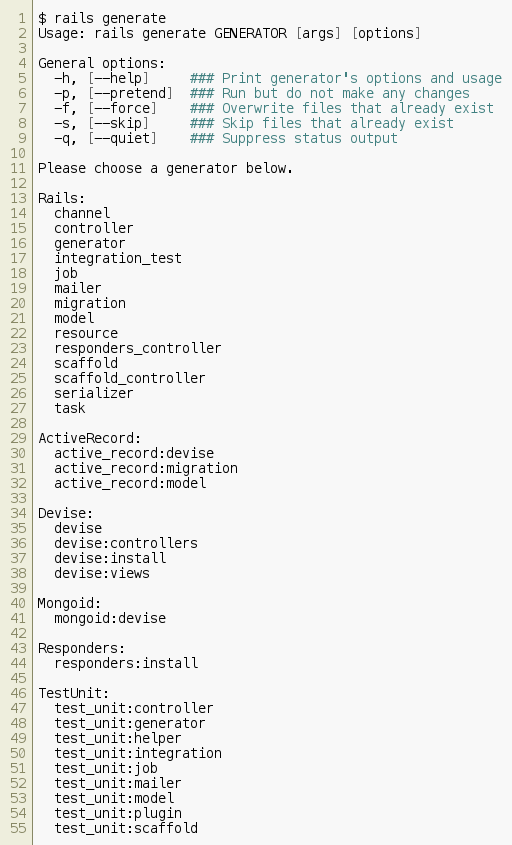
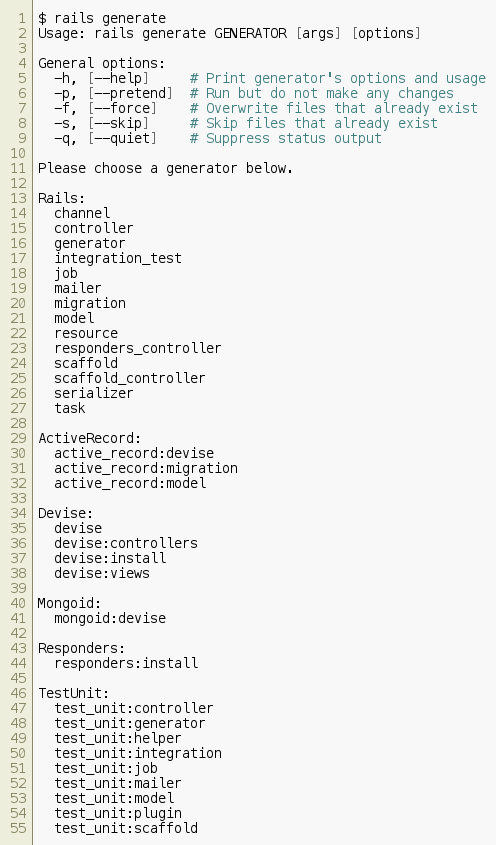
[dasper] Add code snippets & converted images

Changed region(s): [[0.0302, 0.0, 0.9677, 1.0], [0.3024, 0.2769, 0.3629, 0.3077]]

diff --git a/assets/media/snippets/posts/2016-07-04/ruby-6.rb b/assets/media/snippets/posts/2016-07-04/ruby-6.rb
@@ -1,0 +1,4 @@
+class Conversation < ApplicationRecord
+  belongs_to :from_user
+  belongs_to :to_user
+end

diff --git a/_posts/2016-07-05-rails-migration-2.md b/_posts/2016-07-05-rails-migration-2.md
@@ -30,6 +30,11 @@ $ rails generate migration AddDeliveryFieldsToMessage is_sent:boolean is_deliver
       invoke  active_record
       create    db/migrate/20160705090219_add_delivery_fields_to_message.rb
 ```
+{% include figure.html
+   filename="/assets/media/snippets/images/2016-07-05/shell-1.png"
+   alt="Shell snippet 1"
+   caption="Sinh file migration"
+   instant_articles="true" %}
 
 và nhận được kết quả là file `db/migrate/20160705090219_add_delivery_fields_to_message.rb` như sau:
 
@@ -43,6 +48,11 @@ class AddDeliveryFieldsToMessage < ActiveRecord::Migration[5.0]
   end
 end
 ```
+{% include figure.html
+   filename="/assets/media/snippets/images/2016-07-05/ruby-1.png"
+   alt="Ruby code snippet 1"
+   caption="File migration tự động sinh"
+   instant_articles="true" %}
 
 **Rails generator** tự động nhận diện lệnh **Migration** có cấu trúc `AddXXXToYYY` là chúng ta đang thêm các trường vào 1 Model có tên là `YYY`, vậy nên nó sẽ sinh ra các dòng `add_column :messages` như ở trên.
 
@@ -60,6 +70,11 @@ class AddDeliveryToMessage < ActiveRecord::Migration[5.0]
   end
 end
 ```
+{% include figure.html
+   filename="/assets/media/snippets/images/2016-07-05/ruby-2.png"
+   alt="Ruby code snippet 2"
+   caption="Sử dụng block change_table"
+   instant_articles="true" %}
 
 Ở đây, chúng ta dùng block `change_table` để tiến hành sửa nhiều trường trong cùng bảng `messages`, thay vì lệnh nào cũng phải khai báo bảng này. Ngoài ra, chúng ta còn có thể thêm các tùy chọn như `null: false` hay `default: true` để khai báo các trường này không được phép nhận giá trị `null`, và giá trị mặc định sẽ là `true` hoặc `false` tùy theo từng trường.
 
@@ -78,6 +93,11 @@ class ChangeMessageIsReadField < ActiveRecord::Migration[5.0]
   end
 end
 ```
+{% include figure.html
+   filename="/assets/media/snippets/images/2016-07-05/ruby-3.png"
+   alt="Ruby code snippet 3"
+   caption="Sử dụng lệnh rename_column"
+   instant_articles="true" %}
 
 hoặc sử dụng block `change_table`:
 
@@ -90,6 +110,11 @@ class ChangeMessageIsReadField < ActiveRecord::Migration[5.0]
   end
 end
 ```
+{% include figure.html
+   filename="/assets/media/snippets/images/2016-07-05/ruby-4.png"
+   alt="Ruby code snippet 4"
+   caption="Sử dụng block change_table"
+   instant_articles="true" %}
 
 #### 3.3.2. Đổi kiểu dữ liệu ####
 
@@ -104,6 +129,11 @@ class ChangeMessageIsSeenField < ActiveRecord::Migration[5.0]
   end
 end
 ```
+{% include figure.html
+   filename="/assets/media/snippets/images/2016-07-05/ruby-5.png"
+   alt="Ruby code snippet 5"
+   caption="Sử dụng lệnh change_column"
+   instant_articles="true" %}
 
 Với block `change_table`:
 
@@ -116,6 +146,11 @@ class ChangeMessageIsSeenField < ActiveRecord::Migration[5.0]
   end
 end
 ```
+{% include figure.html
+   filename="/assets/media/snippets/images/2016-07-05/ruby-6.png"
+   alt="Ruby code snippet 6"
+   caption="Sử dụng block change_table"
+   instant_articles="true" %}
 
 #### 3.3.3. Đặt giá trị mặc định ####
 
@@ -128,6 +163,11 @@ class ChangeMessageIsSentDefault < ActiveRecord::Migration[5.0]
   end
 end
 ```
+{% include figure.html
+   filename="/assets/media/snippets/images/2016-07-05/ruby-7.png"
+   alt="Ruby code snippet 7"
+   caption="Sử dụng lệnh change_column_default"
+   instant_articles="true" %}
 
 #### 3.3.4. Đặt giá trị khác `null` ####
 
@@ -140,6 +180,11 @@ class ChangeMessageIsSentNull < ActiveRecord::Migration[5.0]
   end
 end
 ```
+{% include figure.html
+   filename="/assets/media/snippets/images/2016-07-05/ruby-8.png"
+   alt="Ruby code snippet 8"
+   caption="Sử dụng lệnh change_column_null"
+   instant_articles="true" %}
 
 ***Lưu ý:*** lệnh này nhận 1 tham số `true` hoặc `false` thể hiện rằng trường này có thể nhận giá trị `null` hay không, tương đương với query trong PostgreSQL là `SET NOT NULL` nếu `false` hoặc không gì cả nếu `true`.
 
@@ -156,6 +201,11 @@ class RemoveIsSeenFromMessage < ActiveRecord::Migration[5.0]
   end
 end
 ```
+{% include figure.html
+   filename="/assets/media/snippets/images/2016-07-05/ruby-9.png"
+   alt="Ruby code snippet 9"
+   caption="Sử dụng lệnh remove_column"
+   instant_articles="true" %}
 
 Với block `change_table`
 
@@ -168,12 +218,22 @@ class RemoveIsSeenFromMessage < ActiveRecord::Migration[5.0]
   end
 end
 ```
+{% include figure.html
+   filename="/assets/media/snippets/images/2016-07-05/ruby-10.png"
+   alt="Ruby code snippet 10"
+   caption="Sử dụng block change_table"
+   instant_articles="true" %}
 
 Cũng giống như tạo mới trường dữ liệu, **command line tools** cũng nhận ra cấu trúc `RemoveXXXFromYYY` khi ta gọi lệnh `rails generate migration`:
 
 ```shell
 $ rails generate migration RemoveIsSeenFromMessage is_seen:integer
 ```
+{% include figure.html
+   filename="/assets/media/snippets/images/2016-07-05/shell-2.png"
+   alt="Shell snippet 2"
+   caption="Sinh file migration tự động cho lệnh remove"
+   instant_articles="true" %}
 
 ### 3.5. Đánh index cho các trường trong Model ###
 
@@ -188,6 +248,11 @@ class IndexingMessageFields < ActiveRecord::Migration[5.0]
   end
 end
 ```
+{% include figure.html
+   filename="/assets/media/snippets/images/2016-07-05/ruby-11.png"
+   alt="Ruby code snippet 11"
+   caption="Sử dụng lệnh add_index"
+   instant_articles="true" %}
 
 Với block `change_table`:
 
@@ -200,6 +265,11 @@ class IndexingMessageFields < ActiveRecord::Migration[5.0]
   end
 end
 ```
+{% include figure.html
+   filename="/assets/media/snippets/images/2016-07-05/ruby-12.png"
+   alt="Ruby code snippet 12"
+   caption="Sử dụng block change_table"
+   instant_articles="true" %}
 
 ***Lưu ý:*** lệnh này chấp nhận nhiều tham số, thể hiện rằng ta muốn đánh index nhiều trường khác nhau cùng 1 lúc.
 

diff --git a/_posts/2016-07-04-rails-migration-1.md b/_posts/2016-07-04-rails-migration-1.md
@@ -70,11 +70,11 @@ $ rails generate
 Usage: rails generate GENERATOR [args] [options]
 
 General options:
-  -h, [--help]     ### Print generator's options and usage
-  -p, [--pretend]  ### Run but do not make any changes
-  -f, [--force]    ### Overwrite files that already exist
-  -s, [--skip]     ### Skip files that already exist
-  -q, [--quiet]    ### Suppress status output
+  -h, [--help]     # Print generator's options and usage
+  -p, [--pretend]  # Run but do not make any changes
+  -f, [--force]    # Overwrite files that already exist
+  -s, [--skip]     # Skip files that already exist
+  -q, [--quiet]    # Suppress status output
 
 Please choose a generator below.
 
@@ -122,6 +122,11 @@ TestUnit:
   test_unit:plugin
   test_unit:scaffold
 ```
+{% include figure.html
+   filename="/assets/media/snippets/images/2016-07-04/shell-1.png"
+   alt="Shell snippet 1"
+   caption="Rails generators"
+   instant_articles="true" %}
 
 Đây là bộ công cụ cực kỳ hữu dụng vì nó làm giúp chúng ta hầu hết các phần đơn giản như: tạo các file với tên theo chuẩn, có sẵn các đoạn mã cơ bản để khởi tạo. Lệnh này cũng có cách viết tắt là `rails g` thay cho viết đầy đủ là `rails generate`
 
@@ -133,6 +138,11 @@ $ rails generate model conversation title:string from_user:references to_user:re
       create    db/migrate/20160704073539_create_conversations.rb
       create    app/models/conversation.rb
 ```
+{% include figure.html
+   filename="/assets/media/snippets/images/2016-07-04/shell-2.png"
+   alt="Shell snippet 2"
+   caption="Generate model"
+   instant_articles="true" %}
 
 Tuy nhiên lệnh này chỉ tạo ra Model, chúng ta sẽ cần đến nhiều thành phần hơn:
 
@@ -156,6 +166,11 @@ $ rails generate scaffold conversation title:string from_user:references to_user
       invoke  scaffold_controller
       create    app/controllers/conversations_controller.rb
 ```
+{% include figure.html
+   filename="/assets/media/snippets/images/2016-07-04/shell-3.png"
+   alt="Shell snippet 3"
+   caption="Generate model với scaffold"
+   instant_articles="true" %}
 
 Mặc định, `rails generate` sẽ tạo ra rất nhiều các file phục vụ các tính năng khác nhau, ta có thể cấu hình bật/tắt các tính năng này bằng cách thêm lệnh `config.generators` trong file `configs/application.rb`:
 
@@ -176,6 +191,11 @@ module SecretMessengerApi
   end
 end
 ```
+{% include figure.html
+   filename="/assets/media/snippets/images/2016-07-04/ruby-1.png"
+   alt="Ruby code snippet 1"
+   caption="Cấu hình generators"
+   instant_articles="true" %}
 
 (trong trường hợp này, chúng ta sẽ không sinh ra bất kỳ file nào phục vụ cho web front-end như `template_engine`, `stylesheets`, `javascripts`,...)
 
@@ -194,6 +214,11 @@ class CreateConversations < ActiveRecord::Migration[5.0]
   end
 end
 ```
+{% include figure.html
+   filename="/assets/media/snippets/images/2016-07-04/ruby-2.png"
+   alt="Ruby code snippet 2"
+   caption="File migration tự động sinh"
+   instant_articles="true" %}
 
 Ở đây chúng ta có 1 class tên là `CreateConversations`, kế thừa từ `ActiveRecord::Migration[5.0]`. Class này có 1 hàm tên `change`, với nội dung là tạo mới (`create_table`) một bảng tên là `conversations`, trong bảng `conversations`:
 
@@ -217,6 +242,11 @@ class CreateConversations < ActiveRecord::Migration[5.0]
   end
 end
 ```
+{% include figure.html
+   filename="/assets/media/snippets/images/2016-07-04/ruby-3.png"
+   alt="Ruby code snippet 3"
+   caption="Thêm quan hệ belongs_to"
+   instant_articles="true" %}
 
 Ngoài ra, trong file `app/models/conversation.rb`, chúng ta cũng có nội dung như sau:
 
@@ -226,6 +256,11 @@ class Conversation < ApplicationRecord
   belongs_to :to_user
 end
 ```
+{% include figure.html
+   filename="/assets/media/snippets/images/2016-07-04/ruby-6.png"
+   alt="Ruby code snippet 6"
+   caption="Quan hệ mặc định trong model"
+   instant_articles="true" %}
 
 Lúc này, **Active Record** sẽ hiểu rằng, `Conversation` có quan hệ `n-1` với 2 Model `FromUser` và `ToUser`. Trong khi chúng ta chỉ có 1 Model là `User` mà thôi. Để **Active Record** hiểu đúng, ta cần sửa lại như sau:
 
@@ -235,12 +270,22 @@ class Conversation < ApplicationRecord
   belongs_to :to_user, class_name: "User"
 end
 ```
+{% include figure.html
+   filename="/assets/media/snippets/images/2016-07-04/ruby-4.png"
+   alt="Ruby code snippet 4"
+   caption="Thêm quan hệ trong model"
+   instant_articles="true" %}
 
 Cuối cùng, ta chạy lệnh `migrate` để thực hiện các thay đổi:
 
 ```shell
 $ rails db:migrate
 ```
+{% include figure.html
+   filename="/assets/media/snippets/images/2016-07-04/shell-4.png"
+   alt="Shell snippet 4"
+   caption="Chạy lệnh migrate"
+   instant_articles="true" %}
 
 Trong bài viết [sau][part-2], ta sẽ làm việc sâu hơn với **Migration** trong **Rails** với các thao tác thêm mới, đổi tên, đổi kiểu dữ liệu, đặt giá trị mặc định, xóa trường & đánh index cho các trường trong Model.
 

diff --git a/_posts/2016-06-30-swift-optionals-1.md b/_posts/2016-06-30-swift-optionals-1.md
@@ -28,6 +28,11 @@ var optionalInt: Int? = nil
 originalInt = 14
 optionalInt = 15
 ```
+{% include figure.html
+   filename="/assets/media/snippets/images/2016-06-30/swift-1.png"
+   alt="Swift code snippet 1"
+   caption="Khai báo Optional"
+   instant_articles="true" %}
 
 Lúc này, biến `originalInt` có kiểu thuần `Int`, và việc gán nó bằng `nil` gây lỗi `Nil cannot initialize specified type 'Int'`, trong khi biến `optionalInt` có kiểu *optional* `Int?`, không có lỗi gì xảy ra nếu được gán bằng `nil`. Ngoài điểm này ra, 2 biến này hoàn toàn bình đẳng trong các phép gán giá trị `Int` bình thường.
 
@@ -44,6 +49,11 @@ optionalInt = 10
 print(optionalInt)                      // Optional(10)
 "optionalInt = \(optionalInt)"          // "optionalInt = Optional(10)"
 ```
+{% include figure.html
+   filename="/assets/media/snippets/images/2016-06-30/swift-2.png"
+   alt="Swift code snippet 2"
+   caption="Sử dụng Optional"
+   instant_articles="true" %}
 
 Như vậy, đối với kiểu **Optional**, mọi giá trị khác `nil` đều được đặt trong 1 đối tượng `Optional(...)`. Việc này **Swift** gọi là **wrap** (*gói*), tức là do không biết 1 giá trị **Optional** có giá trị hay không, ta cứ *gói* vào cho chắc chắn.
 
@@ -57,6 +67,11 @@ optionalInt = 10
 print(optionalInt!)                     // 10
 "optionalInt = \(optionalInt)"          // "optionalInt = 10"
 ```
+{% include figure.html
+   filename="/assets/media/snippets/images/2016-06-30/swift-3.png"
+   alt="Swift code snippet 3"
+   caption="Lỗi unwrap giá trị nil"
+   instant_articles="true" %}
 
 ***Lưu ý:*** nếu cố tình **unwrap** một biến `nil`, ta sẽ gặp lỗi `fatal error: unexpectedly found nil while unwrapping an Optional value`
 
@@ -72,6 +87,11 @@ autoUnwrap = 10
 print(autoUnwrap)                       // 10
 "optionalInt = \(autoUnwrap)"           // "optionalInt = 10"
 ```
+{% include figure.html
+   filename="/assets/media/snippets/images/2016-06-30/swift-4.png"
+   alt="Swift code snippet 4"
+   caption="Unwrap tự động"
+   instant_articles="true" %}
 
 Tất nhiên, khi ta **unwrap tự động** 1 biến `nil` thì vẫn nhận được thông báo lỗi `fatal error: unexpectedly found nil while unwrapping an Optional value` như thường, vì bản chất việc này là ẩn dấu `!` mỗi lần sử dụng biến mà thôi
 
@@ -90,6 +110,11 @@ if let checkedInt = optionalInt {
   "no value for checkedInt"
 }
 ```
+{% include figure.html
+   filename="/assets/media/snippets/images/2016-06-30/swift-5.png"
+   alt="Swift code snippet 5"
+   caption="Optional binding"
+   instant_articles="true" %}
 
 Tại dòng số **3**, ta tiến hành **binding** biến `optionalInt` vào 1 biến tạm tên là `checkedInt`:
 
